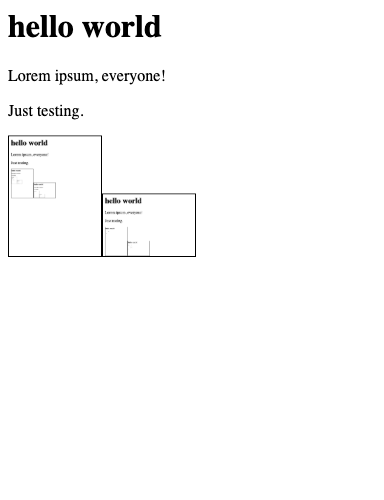
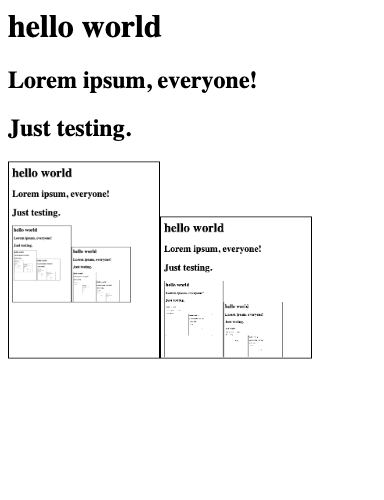
working good enough for 1.0.0

diff --git a/sample/test.md.html b/sample/test.md.html
@@ -1,11 +1,11 @@
 <h1>hello world</h1>
-<p>Lorem ipsum, everyone!</p>
-<p>Just testing.</p>
+<h2>Lorem ipsum, everyone!</h2>
+<h2>Just testing.</h2>
 <!-- 384 is the device width, but body has an 8px margin by default, so 384 - 16 = 368 -->
 <!-- 
 <img src="https://upload.wikimedia.org/wikipedia/commons/2/2a/First_Boat_Built_on_the_Western_Waters%2C_1812_%28cropped%29.jpg" width=368>
 -->
-<p><img src="test.md.orig.png" width=92><img src="test.md.png" width=92></p>
+<p><img src="test.md.orig.png" width=150><img src="test.md.png" width=150></p>
 <style>
 img {
   margin: 0;

diff --git a/sample/test.md b/sample/test.md
@@ -2,15 +2,17 @@ hello world
 ============
 
 Lorem ipsum, everyone!
+----------------------
 
 Just testing.
+-------------
 
 <!-- 384 is the device width, but body has an 8px margin by default, so 384 - 16 = 368 -->
 <!-- 
 <img src="https://upload.wikimedia.org/wikipedia/commons/2/2a/First_Boat_Built_on_the_Western_Waters%2C_1812_%28cropped%29.jpg" width=368>
 -->
 
-<img src="test.md.orig.png" width=92><img src="test.md.png" width=92>
+<img src="test.md.orig.png" width=150><img src="test.md.png" width=150>
 
 <style>
 img {

diff --git a/README.md b/README.md
@@ -87,7 +87,7 @@ references
 change log
 ================================================================================
 
-#### 1.0.0 - ... not yet ...
+#### 1.0.0 - 2025-01-12
 
 - initial working version
 
